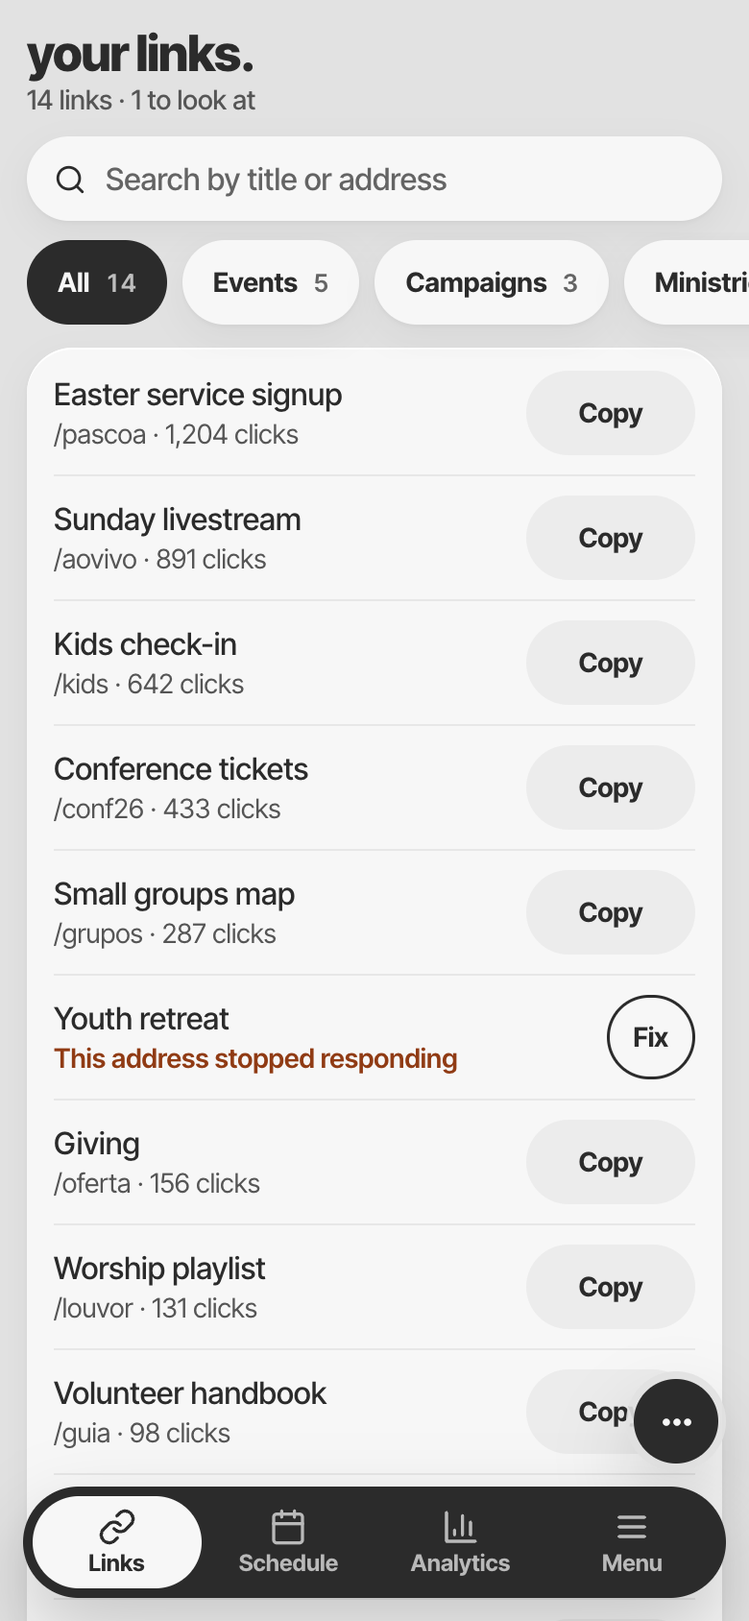
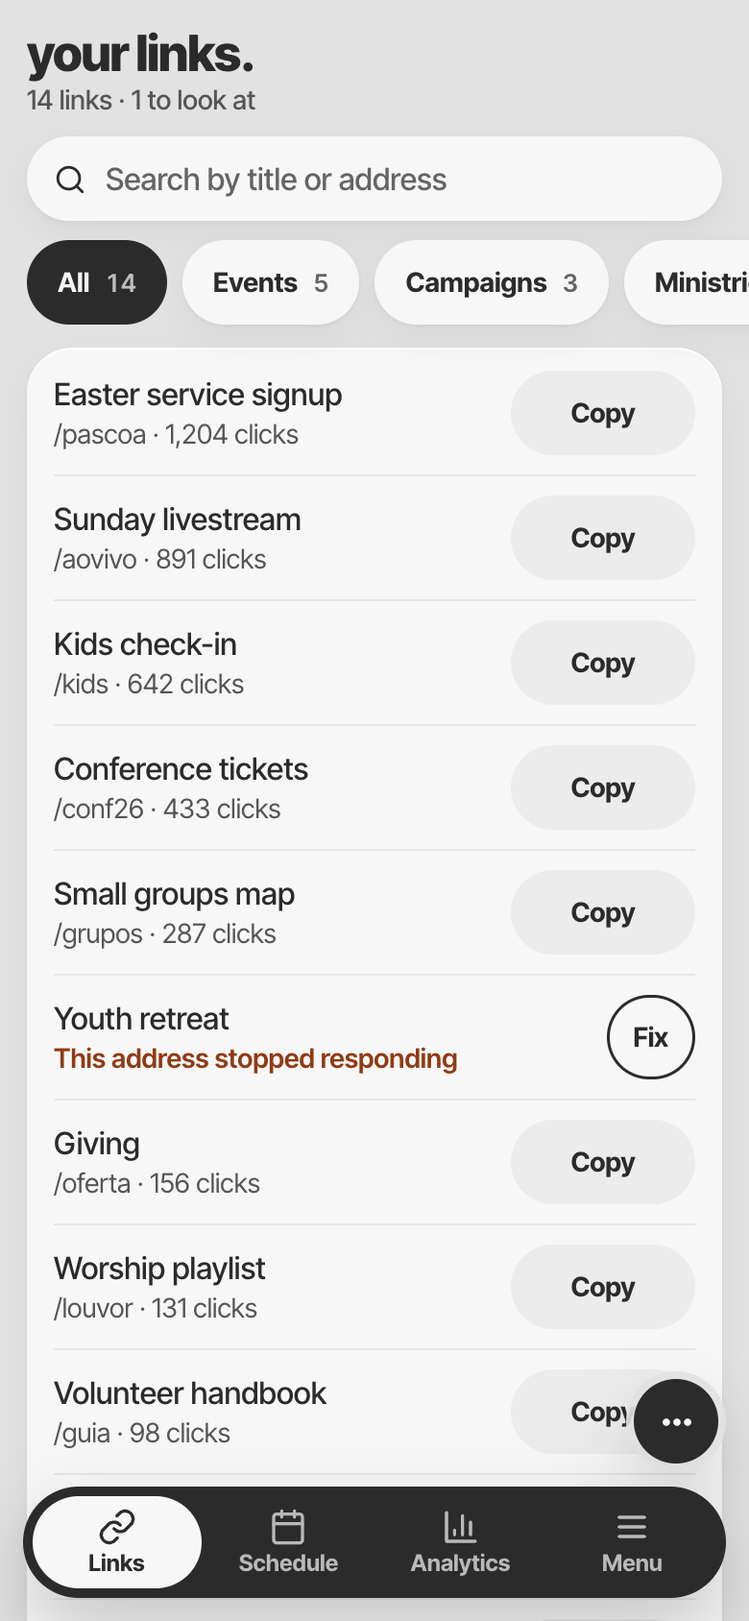
fix(forms): keep hints out of a field's accessible name
A label names its field, and the documented markup wrapped the hint and error
inside one. So a screen reader heard "Destination Where people land. You can
change it any time" as the name on every visit. Fields are now a div with a
label for, and hints and errors are tied by aria-describedby. It's markup
guidance: apps built from the old pattern render the same until they change.

- label.pm-row with a sub-line points aria-labelledby and aria-describedby at
  its parts, so the whole row stays the target
- poiema-review now checks for this, and a test keeps both patterns out of the
  docs and demos

Claude-Session: https://claude.ai/code/session_01A47eYC15Ka8NinsbNPJiKP

diff --git a/demo/app.html b/demo/app.html
@@ -343,15 +343,15 @@
       </header>
       <form class="pm-stack pm-measure" onsubmit="event.preventDefault(); Poiema.toast('Saved ✓')">
         <div class="pm-card pm-card--compact pm-stack">
-          <label class="pm-field">
-            <span class="pm-label">Name</span>
-            <input class="pm-input" value="Marina Duarte" autocomplete="off">
-          </label>
-          <label class="pm-field">
-            <span class="pm-label">Email</span>
-            <input class="pm-input" type="email" value="marina@example.com" aria-invalid="false" autocomplete="off">
-            <span class="pm-hint">We only use it to send you the month's schedule.</span>
-          </label>
+          <div class="pm-field">
+            <label class="pm-label" for="settings-name">Name</label>
+            <input class="pm-input" id="settings-name" value="Marina Duarte" autocomplete="off">
+          </div>
+          <div class="pm-field">
+            <label class="pm-label" for="settings-email">Email</label>
+            <input class="pm-input" id="settings-email" type="email" value="marina@example.com" aria-invalid="false" aria-describedby="settings-email-hint" autocomplete="off">
+            <span class="pm-hint" id="settings-email-hint">We only use it to send you the month's schedule.</span>
+          </div>
           <div class="pm-field">
             <span class="pm-label" id="theme-label">Appearance</span>
             <div class="pm-segmented" role="radiogroup" aria-labelledby="theme-label">
@@ -371,8 +371,8 @@
             </span>
           </div>
           <label class="pm-row">
-            <span class="pm-row__text"><span class="pm-row__title">Couples serve together</span><span class="pm-row__sub">They always land on the same Sunday</span></span>
-            <input class="pm-switch" type="checkbox" role="switch" checked>
+            <span class="pm-row__text"><span class="pm-row__title" id="couples-title">Couples serve together</span><span class="pm-row__sub" id="couples-sub">They always land on the same Sunday</span></span>
+            <input class="pm-switch" type="checkbox" role="switch" aria-labelledby="couples-title" aria-describedby="couples-sub" checked>
           </label>
           <label class="pm-row">
             <span class="pm-row__text"><span class="pm-row__title">Once a month</span></span>
@@ -412,8 +412,8 @@
       <div class="pm-gate">
         <form class="pm-card pm-card--compact pm-stack" onsubmit="event.preventDefault(); location.hash = 'links'">
           <h1 class="pm-h1">sign in.</h1>
-          <label class="pm-field"><span class="pm-label">Email</span><input class="pm-input" type="email" value="marina@example.com" autocomplete="off"></label>
-          <label class="pm-field"><span class="pm-label">Password</span><input class="pm-input" type="password" value="made-up" autocomplete="off"></label>
+          <div class="pm-field"><label class="pm-label" for="signin-email">Email</label><input class="pm-input" id="signin-email" type="email" value="marina@example.com" autocomplete="off"></div>
+          <div class="pm-field"><label class="pm-label" for="signin-password">Password</label><input class="pm-input" id="signin-password" type="password" value="made-up" autocomplete="off"></div>
           <button class="pm-btn pm-btn--block" type="submit">Sign in</button>
         </form>
       </div>
@@ -440,25 +440,25 @@
       </div>
     </div>
     <div class="pm-panel__body">
-      <label class="pm-field">
-        <span class="pm-label">Destination</span>
-        <input class="pm-input" name="dest" type="url" inputmode="url" placeholder="https://" autocomplete="off">
-        <span class="pm-hint">Where people land. You can change it any time, even after printing.</span>
-      </label>
-      <label class="pm-field">
-        <span class="pm-label">Title</span>
-        <input class="pm-input" name="title" autocomplete="off">
+      <div class="pm-field">
+        <label class="pm-label" for="new-link-dest">Destination</label>
+        <input class="pm-input" id="new-link-dest" name="dest" type="url" inputmode="url" placeholder="https://" autocomplete="off" aria-describedby="new-link-dest-hint">
+        <span class="pm-hint" id="new-link-dest-hint">Where people land. You can change it any time, even after printing.</span>
+      </div>
+      <div class="pm-field">
+        <label class="pm-label" for="new-link-title-input">Title</label>
+        <input class="pm-input" id="new-link-title-input" name="title" autocomplete="off">
         <span class="pm-error" id="new-link-error" hidden>Give it a name so we can find it later.</span>
-      </label>
-      <label class="pm-field">
-        <span class="pm-label">Short address</span>
-        <input class="pm-input" name="slug" placeholder="links.poiemaorlando.com/…" autocomplete="off" autocapitalize="none" spellcheck="false">
-        <span class="pm-hint">Leave it empty and we pick one.</span>
-      </label>
-      <label class="pm-field">
-        <span class="pm-label">Folder</span>
-        <select class="pm-select" name="folder"><option>Events</option><option>Campaigns</option><option>Ministries</option></select>
-      </label>
+      </div>
+      <div class="pm-field">
+        <label class="pm-label" for="new-link-slug">Short address</label>
+        <input class="pm-input" id="new-link-slug" name="slug" placeholder="links.poiemaorlando.com/…" autocomplete="off" autocapitalize="none" spellcheck="false" aria-describedby="new-link-slug-hint">
+        <span class="pm-hint" id="new-link-slug-hint">Leave it empty and we pick one.</span>
+      </div>
+      <div class="pm-field">
+        <label class="pm-label" for="new-link-folder">Folder</label>
+        <select class="pm-select" id="new-link-folder" name="folder"><option>Events</option><option>Campaigns</option><option>Ministries</option></select>
+      </div>
       <div class="pm-field">
         <span class="pm-label" id="redirect-label">Redirect</span>
         <div class="pm-segmented" role="radiogroup" aria-labelledby="redirect-label">
@@ -604,10 +604,10 @@ document.addEventListener('DOMContentLoaded', () => {
     } else {
       box.innerHTML = `<div class="pm-rows pm-rows--columns">${shown.map((l) => {
         const sub = l.problem
-          ? `<span class="pm-row__sub pm-row__sub--danger">${l.problem}</span>`
-          : `<span class="pm-row__sub">/${esc(l.slug)} · ${clicks(l.clicks)}</span>`;
+          ? `<span class="pm-row__sub pm-row__sub--danger" id="row-${esc(l.slug)}-sub">${l.problem}</span>`
+          : `<span class="pm-row__sub" id="row-${esc(l.slug)}-sub">/${esc(l.slug)} · ${clicks(l.clicks)}</span>`;
         if (selected) {
-          return `<label class="pm-row"><input class="pm-check" type="checkbox" data-pick="${esc(l.slug)}"${selected.has(l.slug) ? ' checked' : ''}><span class="pm-row__text"><span class="pm-row__title">${esc(l.title)}</span>${sub}</span></label>`;
+          return `<label class="pm-row"><input class="pm-check" type="checkbox" data-pick="${esc(l.slug)}" aria-labelledby="row-${esc(l.slug)}-title" aria-describedby="row-${esc(l.slug)}-sub"${selected.has(l.slug) ? ' checked' : ''}><span class="pm-row__text"><span class="pm-row__title" id="row-${esc(l.slug)}-title">${esc(l.title)}</span>${sub}</span></label>`;
         }
         const trailing = l.problem
           ? `<a class="pm-btn pm-btn--outline pm-btn--sm" href="#link">Fix</a>`
@@ -647,6 +647,7 @@ document.addEventListener('DOMContentLoaded', () => {
   };
   const clearError = () => {
     form.elements.title.removeAttribute('aria-invalid');
+    form.elements.title.removeAttribute('aria-describedby');
     $('#new-link-error').hidden = true;
   };
   form.elements.title.addEventListener('input', clearError);
@@ -655,6 +656,8 @@ document.addEventListener('DOMContentLoaded', () => {
     const title = form.elements.title;
     if (!title.value.trim()) {
       title.setAttribute('aria-invalid', 'true');
+      // Only while it shows: aria-describedby still reads an element that is hidden.
+      title.setAttribute('aria-describedby', 'new-link-error');
       $('#new-link-error').hidden = false;
       title.focus();
       return;

diff --git a/demo/index.html b/demo/index.html
@@ -354,15 +354,19 @@ npx poiema-ui init   // teach your AI</pre>
         <h2 class="pm-h2">tell us who you are.</h2>
         <form class="pm-stack pm-stack--lg" onsubmit="event.preventDefault(); Poiema.toast('Saved ✓')">
           <div class="pm-grid pm-grid--2">
-            <label class="pm-field"><span class="pm-label">Name</span><input class="pm-input" placeholder="Your name" autocomplete="name"></label>
-            <label class="pm-field"><span class="pm-label">Team</span><select class="pm-select"><option>Design</option><option>Product</option><option>Ministry</option></select></label>
+            <div class="pm-field"><label class="pm-label" for="contact-name">Name</label><input class="pm-input" id="contact-name" placeholder="Your name" autocomplete="name"></div>
+            <div class="pm-field"><label class="pm-label" for="contact-team">Team</label><select class="pm-select" id="contact-team"><option>Design</option><option>Product</option><option>Ministry</option></select></div>
           </div>
-          <label class="pm-field">
-            <span class="pm-label">Email</span>
-            <input class="pm-input" type="email" value="ana@" aria-invalid="true" aria-describedby="email-error">
-            <span class="pm-error" id="email-error">Enter a valid email.</span>
-          </label>
-          <label class="pm-field"><span class="pm-label">Message</span><textarea class="pm-textarea" placeholder="One or two sentences are enough."></textarea><span class="pm-hint">We read every message.</span></label>
+          <div class="pm-field">
+            <label class="pm-label" for="contact-email">Email</label>
+            <input class="pm-input" id="contact-email" type="email" value="ana@" aria-invalid="true" aria-describedby="contact-email-error">
+            <span class="pm-error" id="contact-email-error">Enter a valid email.</span>
+          </div>
+          <div class="pm-field">
+            <label class="pm-label" for="contact-message">Message</label>
+            <textarea class="pm-textarea" id="contact-message" placeholder="One or two sentences are enough." aria-describedby="contact-message-hint"></textarea>
+            <span class="pm-hint" id="contact-message-hint">We read every message.</span>
+          </div>
           <div class="pm-cluster" style="--pm-gap:24px">
             <label class="pm-choice"><input class="pm-check" type="checkbox" checked> Keep me posted</label>
             <label class="pm-choice"><input class="pm-radio" type="radio" name="f" checked> Monthly</label>

diff --git a/docs/components.md b/docs/components.md
@@ -248,27 +248,29 @@ The notches use `--pm-notch` (default `--pm-canvas`). Set it to the ticket's rea
 
 ## Forms
 ```html
-<label class="pm-field">
-  <span class="pm-label">Email</span>
-  <input class="pm-input" type="email" placeholder="you@example.com">
-  <span class="pm-hint">We only use it for the confirmation.</span>
-</label>
-<label class="pm-field">
-  <span class="pm-label">Team</span>
-  <select class="pm-select"><option>Design</option></select>
-</label>
-<label class="pm-field">
-  <span class="pm-label">Message</span>
-  <textarea class="pm-textarea" aria-invalid="true"></textarea>
-  <span class="pm-error">Write at least one sentence.</span>
-</label>
-<div class="pm-input-group"><input class="pm-input" placeholder="Search"><button class="pm-btn">Search</button></div>
+<div class="pm-field">
+  <label class="pm-label" for="email">Email</label>
+  <input class="pm-input" id="email" type="email" aria-describedby="email-hint">
+  <span class="pm-hint" id="email-hint">We only use it for the confirmation.</span>
+</div>
+<div class="pm-field">
+  <label class="pm-label" for="team">Team</label>
+  <select class="pm-select" id="team"><option>Design</option></select>
+</div>
+<div class="pm-field">
+  <label class="pm-label" for="message">Message</label>
+  <textarea class="pm-textarea" id="message" aria-invalid="true" aria-describedby="message-error"></textarea>
+  <span class="pm-error" id="message-error">Write at least one sentence.</span>
+</div>
+<div class="pm-input-group"><input class="pm-input" placeholder="Search" aria-label="Search"><button class="pm-btn">Search</button></div>
 
 <label class="pm-choice"><input class="pm-check" type="checkbox" checked> Keep me posted</label>
 <label class="pm-choice"><input class="pm-radio" type="radio" name="r" checked> Monthly</label>
 <label class="pm-choice"><input class="pm-switch" type="checkbox" role="switch"> Dark mode</label>
 ```
-Invalid state: `aria-invalid="true"` (clay border). Focus: 2px ink ring. The checked radio is the brand ring. The button in `.pm-input-group` is 40px tall with a mouse and 44px on touch.
+A label names its field, and everything inside a `<label>` becomes part of that name. So a hint or error sits outside the label, tied to the field by `aria-describedby`: a screen reader says "Email", then the hint as its description. In React, `useId` gives the ids. Two exceptions: `.pm-choice` wraps its input, because there the label is the name, and a `.pm-segmented` has no single field to name, so its caption stays a `<span class="pm-label" id="…">` with `aria-labelledby` on the group.
+
+Invalid state: `aria-invalid="true"` (clay border) and `aria-describedby` pointing at the `.pm-error`. If the error comes and goes, point at it only while it shows and back at the hint when it clears, or remove the attribute if there is no hint: `aria-describedby` still reads an element that is `hidden`. Focus: 2px ink ring. The checked radio is the brand ring. The button in `.pm-input-group` is 40px tall with a mouse and 44px on touch.
 
 ## Dialog
 Native `<dialog>`. [JS] `data-pm-open="id"` opens it, a backdrop click closes it, and `[data-pm-close]` or `<form method="dialog">` closes it.
@@ -446,7 +448,7 @@ One card, one row per thing. `.pm-rows--columns` flows five or more into two col
   <label class="pm-row"><input class="pm-check" type="checkbox"><span class="pm-row__text"><span class="pm-row__title">Carla Mendes</span></span></label>
 
   <!-- a switch or stepper behind -->
-  <label class="pm-row"><span class="pm-row__text"><span class="pm-row__title">Couples serve together</span></span><input class="pm-switch" type="checkbox" role="switch"></label>
+  <label class="pm-row"><span class="pm-row__text"><span class="pm-row__title" id="couples-title">Couples serve together</span><span class="pm-row__sub" id="couples-sub">They land on the same Sunday</span></span><input class="pm-switch" type="checkbox" role="switch" aria-labelledby="couples-title" aria-describedby="couples-sub"></label>
 
   <!-- last row: one more of what the card lists -->
   <button class="pm-row pm-row--add" type="button">Add person</button>
@@ -462,6 +464,8 @@ With a header and sections, as on a Sunday card:
 </div>
 <div class="pm-rows"><p class="pm-rows__empty">Nobody with that name.</p></div>
 ```
+When a `label.pm-row` has a sub-line, point the control's `aria-labelledby` at the title and `aria-describedby` at the sub, as in the switch above: the whole row stays the target, and the sub-line doesn't become part of the name.
+
 A row's first `<svg>` is a 22px icon (the Menu screen), and the chevron stays. Any other trailing item replaces the chevron. A `<progress>` as a row's last child spans the whole row, so every bar compares:
 ```html
 <a class="pm-row" href="/menu/folders"><svg aria-hidden="true">…</svg><span class="pm-row__text"><span class="pm-row__title">Folders</span><span class="pm-row__sub">how links are sorted</span></span></a>

diff --git a/skills/poiema-design/references/components.md b/skills/poiema-design/references/components.md
@@ -250,27 +250,29 @@ The notches use `--pm-notch` (default `--pm-canvas`). Set it to the ticket's rea
 
 ## Forms
 ```html
-<label class="pm-field">
-  <span class="pm-label">Email</span>
-  <input class="pm-input" type="email" placeholder="you@example.com">
-  <span class="pm-hint">We only use it for the confirmation.</span>
-</label>
-<label class="pm-field">
-  <span class="pm-label">Team</span>
-  <select class="pm-select"><option>Design</option></select>
-</label>
-<label class="pm-field">
-  <span class="pm-label">Message</span>
-  <textarea class="pm-textarea" aria-invalid="true"></textarea>
-  <span class="pm-error">Write at least one sentence.</span>
-</label>
-<div class="pm-input-group"><input class="pm-input" placeholder="Search"><button class="pm-btn">Search</button></div>
+<div class="pm-field">
+  <label class="pm-label" for="email">Email</label>
+  <input class="pm-input" id="email" type="email" aria-describedby="email-hint">
+  <span class="pm-hint" id="email-hint">We only use it for the confirmation.</span>
+</div>
+<div class="pm-field">
+  <label class="pm-label" for="team">Team</label>
+  <select class="pm-select" id="team"><option>Design</option></select>
+</div>
+<div class="pm-field">
+  <label class="pm-label" for="message">Message</label>
+  <textarea class="pm-textarea" id="message" aria-invalid="true" aria-describedby="message-error"></textarea>
+  <span class="pm-error" id="message-error">Write at least one sentence.</span>
+</div>
+<div class="pm-input-group"><input class="pm-input" placeholder="Search" aria-label="Search"><button class="pm-btn">Search</button></div>
 
 <label class="pm-choice"><input class="pm-check" type="checkbox" checked> Keep me posted</label>
 <label class="pm-choice"><input class="pm-radio" type="radio" name="r" checked> Monthly</label>
 <label class="pm-choice"><input class="pm-switch" type="checkbox" role="switch"> Dark mode</label>
 ```
-Invalid state: `aria-invalid="true"` (clay border). Focus: 2px ink ring. The checked radio is the brand ring. The button in `.pm-input-group` is 40px tall with a mouse and 44px on touch.
+A label names its field, and everything inside a `<label>` becomes part of that name. So a hint or error sits outside the label, tied to the field by `aria-describedby`: a screen reader says "Email", then the hint as its description. In React, `useId` gives the ids. Two exceptions: `.pm-choice` wraps its input, because there the label is the name, and a `.pm-segmented` has no single field to name, so its caption stays a `<span class="pm-label" id="…">` with `aria-labelledby` on the group.
+
+Invalid state: `aria-invalid="true"` (clay border) and `aria-describedby` pointing at the `.pm-error`. If the error comes and goes, point at it only while it shows and back at the hint when it clears, or remove the attribute if there is no hint: `aria-describedby` still reads an element that is `hidden`. Focus: 2px ink ring. The checked radio is the brand ring. The button in `.pm-input-group` is 40px tall with a mouse and 44px on touch.
 
 ## Dialog
 Native `<dialog>`. [JS] `data-pm-open="id"` opens it, a backdrop click closes it, and `[data-pm-close]` or `<form method="dialog">` closes it.
@@ -448,7 +450,7 @@ One card, one row per thing. `.pm-rows--columns` flows five or more into two col
   <label class="pm-row"><input class="pm-check" type="checkbox"><span class="pm-row__text"><span class="pm-row__title">Carla Mendes</span></span></label>
 
   <!-- a switch or stepper behind -->
-  <label class="pm-row"><span class="pm-row__text"><span class="pm-row__title">Couples serve together</span></span><input class="pm-switch" type="checkbox" role="switch"></label>
+  <label class="pm-row"><span class="pm-row__text"><span class="pm-row__title" id="couples-title">Couples serve together</span><span class="pm-row__sub" id="couples-sub">They land on the same Sunday</span></span><input class="pm-switch" type="checkbox" role="switch" aria-labelledby="couples-title" aria-describedby="couples-sub"></label>
 
   <!-- last row: one more of what the card lists -->
   <button class="pm-row pm-row--add" type="button">Add person</button>
@@ -464,6 +466,8 @@ With a header and sections, as on a Sunday card:
 </div>
 <div class="pm-rows"><p class="pm-rows__empty">Nobody with that name.</p></div>
 ```
+When a `label.pm-row` has a sub-line, point the control's `aria-labelledby` at the title and `aria-describedby` at the sub, as in the switch above: the whole row stays the target, and the sub-line doesn't become part of the name.
+
 A row's first `<svg>` is a 22px icon (the Menu screen), and the chevron stays. Any other trailing item replaces the chevron. A `<progress>` as a row's last child spans the whole row, so every bar compares:
 ```html
 <a class="pm-row" href="/menu/folders"><svg aria-hidden="true">…</svg><span class="pm-row__text"><span class="pm-row__title">Folders</span><span class="pm-row__sub">how links are sorted</span></span></a>

diff --git a/skills/poiema-review/references/components.md b/skills/poiema-review/references/components.md
@@ -250,27 +250,29 @@ The notches use `--pm-notch` (default `--pm-canvas`). Set it to the ticket's rea
 
 ## Forms
 ```html
-<label class="pm-field">
-  <span class="pm-label">Email</span>
-  <input class="pm-input" type="email" placeholder="you@example.com">
-  <span class="pm-hint">We only use it for the confirmation.</span>
-</label>
-<label class="pm-field">
-  <span class="pm-label">Team</span>
-  <select class="pm-select"><option>Design</option></select>
-</label>
-<label class="pm-field">
-  <span class="pm-label">Message</span>
-  <textarea class="pm-textarea" aria-invalid="true"></textarea>
-  <span class="pm-error">Write at least one sentence.</span>
-</label>
-<div class="pm-input-group"><input class="pm-input" placeholder="Search"><button class="pm-btn">Search</button></div>
+<div class="pm-field">
+  <label class="pm-label" for="email">Email</label>
+  <input class="pm-input" id="email" type="email" aria-describedby="email-hint">
+  <span class="pm-hint" id="email-hint">We only use it for the confirmation.</span>
+</div>
+<div class="pm-field">
+  <label class="pm-label" for="team">Team</label>
+  <select class="pm-select" id="team"><option>Design</option></select>
+</div>
+<div class="pm-field">
+  <label class="pm-label" for="message">Message</label>
+  <textarea class="pm-textarea" id="message" aria-invalid="true" aria-describedby="message-error"></textarea>
+  <span class="pm-error" id="message-error">Write at least one sentence.</span>
+</div>
+<div class="pm-input-group"><input class="pm-input" placeholder="Search" aria-label="Search"><button class="pm-btn">Search</button></div>
 
 <label class="pm-choice"><input class="pm-check" type="checkbox" checked> Keep me posted</label>
 <label class="pm-choice"><input class="pm-radio" type="radio" name="r" checked> Monthly</label>
 <label class="pm-choice"><input class="pm-switch" type="checkbox" role="switch"> Dark mode</label>
 ```
-Invalid state: `aria-invalid="true"` (clay border). Focus: 2px ink ring. The checked radio is the brand ring. The button in `.pm-input-group` is 40px tall with a mouse and 44px on touch.
+A label names its field, and everything inside a `<label>` becomes part of that name. So a hint or error sits outside the label, tied to the field by `aria-describedby`: a screen reader says "Email", then the hint as its description. In React, `useId` gives the ids. Two exceptions: `.pm-choice` wraps its input, because there the label is the name, and a `.pm-segmented` has no single field to name, so its caption stays a `<span class="pm-label" id="…">` with `aria-labelledby` on the group.
+
+Invalid state: `aria-invalid="true"` (clay border) and `aria-describedby` pointing at the `.pm-error`. If the error comes and goes, point at it only while it shows and back at the hint when it clears, or remove the attribute if there is no hint: `aria-describedby` still reads an element that is `hidden`. Focus: 2px ink ring. The checked radio is the brand ring. The button in `.pm-input-group` is 40px tall with a mouse and 44px on touch.
 
 ## Dialog
 Native `<dialog>`. [JS] `data-pm-open="id"` opens it, a backdrop click closes it, and `[data-pm-close]` or `<form method="dialog">` closes it.
@@ -448,7 +450,7 @@ One card, one row per thing. `.pm-rows--columns` flows five or more into two col
   <label class="pm-row"><input class="pm-check" type="checkbox"><span class="pm-row__text"><span class="pm-row__title">Carla Mendes</span></span></label>
 
   <!-- a switch or stepper behind -->
-  <label class="pm-row"><span class="pm-row__text"><span class="pm-row__title">Couples serve together</span></span><input class="pm-switch" type="checkbox" role="switch"></label>
+  <label class="pm-row"><span class="pm-row__text"><span class="pm-row__title" id="couples-title">Couples serve together</span><span class="pm-row__sub" id="couples-sub">They land on the same Sunday</span></span><input class="pm-switch" type="checkbox" role="switch" aria-labelledby="couples-title" aria-describedby="couples-sub"></label>
 
   <!-- last row: one more of what the card lists -->
   <button class="pm-row pm-row--add" type="button">Add person</button>
@@ -464,6 +466,8 @@ With a header and sections, as on a Sunday card:
 </div>
 <div class="pm-rows"><p class="pm-rows__empty">Nobody with that name.</p></div>
 ```
+When a `label.pm-row` has a sub-line, point the control's `aria-labelledby` at the title and `aria-describedby` at the sub, as in the switch above: the whole row stays the target, and the sub-line doesn't become part of the name.
+
 A row's first `<svg>` is a 22px icon (the Menu screen), and the chevron stays. Any other trailing item replaces the chevron. A `<progress>` as a row's last child spans the whole row, so every bar compares:
 ```html
 <a class="pm-row" href="/menu/folders"><svg aria-hidden="true">…</svg><span class="pm-row__text"><span class="pm-row__title">Folders</span><span class="pm-row__sub">how links are sorted</span></span></a>

diff --git a/AGENTS.md b/AGENTS.md
@@ -48,7 +48,7 @@ buttons     .pm-btn | --soft | --outline | --ghost | --danger | --sm | --lg | --
 chips       .pm-chip | --solid | --outline     .pm-tag (outlined uppercase)
 nav         .pm-pillnav(--sticky) > a|button (+ .pm-ring--sm), active = aria-current / aria-selected / aria-pressed
 data        .pm-stat(__value __label) .pm-numeral .pm-ticket(__main __dates __month __side __row) .pm-table .pm-progress
-forms       .pm-field > .pm-label + .pm-input|.pm-select|.pm-textarea + .pm-hint|.pm-error ; .pm-choice > .pm-check|.pm-radio|.pm-switch
+forms       div.pm-field > label.pm-label[for] + (.pm-input|.pm-select|.pm-textarea)[id][aria-describedby] + (.pm-hint|.pm-error)[id] ; label.pm-choice > .pm-check|.pm-radio|.pm-switch
 overlay     dialog.pm-dialog (+ data-pm-open="id", data-pm-close) ; toast('Saved ✓')
 layout      .pm-container .pm-section .pm-band .pm-stack(--sm|--lg|--xl) .pm-cluster .pm-grid(--2|--3) .pm-split .pm-ruled
 type        .pm-eyebrow .pm-display .pm-h1 .pm-h2 .pm-h3 .pm-h4 .pm-lead .pm-body .pm-small .pm-numeral .pm-prose

diff --git a/skills/poiema-review/SKILL.md b/skills/poiema-review/SKILL.md
@@ -70,6 +70,7 @@ Audit UI against the Poiema system and report **specific, located fixes**. Read 
 
 **Accessibility**
 - [ ] Labels for every field; `aria-invalid` and an error message for errors.
+- [ ] A hint or error sits outside the `<label>` and is tied to its field by `aria-describedby`. A `label.pm-row` with a sub-line points `aria-labelledby` at the title and `aria-describedby` at the sub.
 - [ ] Visible focus (don't remove outlines); `aria-current`/`aria-selected` on active pills.
 - [ ] Alt text on meaningful objects, `alt=""` + `aria-hidden` on decorative ones; marquee duplicate `aria-hidden`.
 - [ ] Contrast: never put `--pm-muted` on small text.
